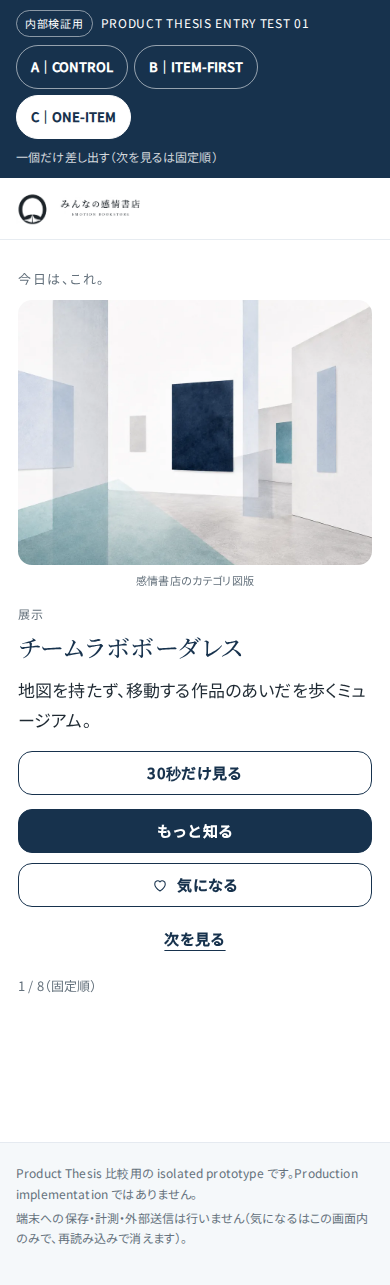
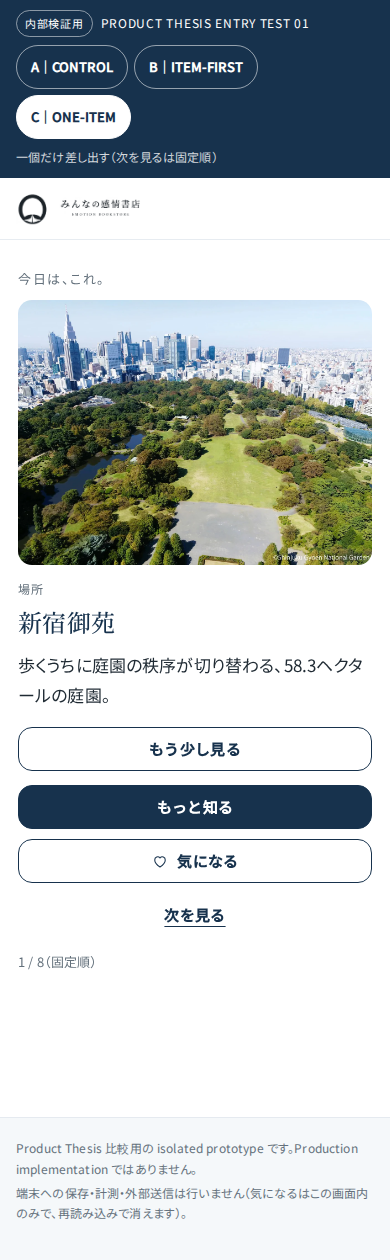
fix(v3): Thesis入口比較prototypeのexperiment validity限定修正（A/B/C）
HQ review（TECHNICAL SAFETY=GO / EXPERIMENT VALIDITY=LIMITED FIX）の
指摘4点だけを閉じる。再設計はせず、既存V3 Productファイルは触らない。

1. B の見出しを pool の実態に合わせた
   「本、映画、音楽、体験。」→「何か、気になるものを。」
   直下に「いまは、展示・場所・体験の8件を置いています。」を機械生成で表示し、
   pool に無い category を約束しない。8件の中身は変更なし。
2. C の small action を実際の動作どおりに改名
   「30秒だけ見る」→「もう少し見る」。展開は従来どおり承認済みの静的
   Practical Truth のみで、network/media/API は追加しない。
3. Visual confound の低減（TEST-ONLY の並び）
   rights上安全な唯一のREAL_READY object EXP_007 を、C の固定anchorと
   B の決定的テスト順の先頭にする。registry順・Production順は不変更で、
   random/popularity/personalizationは無い。A（Control）はこの並びを
   使わず、EXP_007を人為的に挿入していない。
4. 共有Detailは3案同一のまま（variant固有の優遇なし）を実測で確認。

検証: thesis_entry_test_check.js を同梱し 17/17 PASS。
regression: 権威suite 9/9・332 assertions、Shelf Abundance 115/115、
Music Action Bridge 33/33、browser QA 17/17 すべてPASS。
prototypeとevidenceを除外した diff は 0 件（既存Productファイル未変更）。
storage/GA4/network/data model/registry/Privacy/Termsの差分は0。

Claude-Session: https://claude.ai/code/session_01TaXVZnFfq42pQcgwEsf6HR

diff --git a/v3-prototype/thesis-entry-test/thesis_entry_test_check.js b/v3-prototype/thesis-entry-test/thesis_entry_test_check.js
@@ -1,0 +1,145 @@
+/* =============================================================================
+ * V3 PRODUCT THESIS ENTRY TEST 01 — HQ LIMITED FIX の検証
+ * Run: NODE_PATH=<workspace-node_modules> node thesis-entry-test/thesis_entry_test_check.js
+ *
+ * 実験の妥当性（experiment validity）に関する 4 点だけを機械的に確認する。
+ *   1. B の見出しが pool に無い category を約束していない
+ *   2. C の small action が試聴・予告編を装っていない
+ *   3. B / C の先頭が REAL_READY anchor（EXP_007）で、A は Control のまま
+ *   4. Detail が A/B/C で同一
+ * 併せて storage / GA4 / iframe / JS error が 0 であることを確認する。
+ * ========================================================================== */
+const { chromium } = require('playwright');
+const { start } = require('../verify/serve');
+const PAGE = '/thesis-entry-test/index.html';
+const results = [];
+function check(name, pass, detail = '') {
+  results.push(pass);
+  console.log(`${pass ? 'PASS' : 'FAIL'}  ${name}${detail ? ' — ' + detail : ''}`);
+}
+(async () => {
+  const { server, base } = await start(0);
+  const browser = await chromium.launch({ headless: true });
+  const errors = [];
+  const ctx = await browser.newContext({ viewport: { width: 390, height: 844 } });
+  const page = await ctx.newPage();
+  page.on('pageerror', e => errors.push(e.message));
+
+  // --- Variant B ---
+  await page.goto(base + PAGE + '?v=b');
+  await page.waitForSelector('[data-thesis-surface="b-browse"]');
+  const b = await page.evaluate(() => ({
+    h1: document.getElementById('surface-title').textContent,
+    lede: document.querySelector('.thesis-b-lede').textContent,
+    firstCard: document.querySelector('.thesis-card').getAttribute('data-item-id'),
+    order: Array.from(document.querySelectorAll('.thesis-card')).map(c => c.getAttribute('data-item-id')),
+    chips: Array.from(document.querySelectorAll('.thesis-chip')).map(c => c.textContent.trim()),
+    bodyText: document.getElementById('view').textContent
+  }));
+  check('B: category-neutral headline', b.h1 === '何か、気になるものを。', b.h1);
+  check('B: states only categories present in the pool', b.lede === 'いまは、展示・場所・体験の8件を置いています。', b.lede);
+  check('B: does not promise absent categories (本/映画/音楽)',
+    !/本、映画|映画/.test(b.bodyText.replace(/映画館/g, '')) || !b.chips.includes('映画'),
+    JSON.stringify(b.chips));
+  check('B: EXP_007 is the first visible object', b.firstCard === 'EXP_007', b.order.join(','));
+  check('B: same 8 items, deterministic order', b.order.length === 8 &&
+    new Set(b.order).size === 8, b.order.join(','));
+
+  // --- Variant C ---
+  await page.goto(base + PAGE + '?v=c');
+  await page.waitForSelector('[data-thesis-surface="c-one"]');
+  const c1 = await page.evaluate(() => ({
+    title: document.getElementById('surface-title').textContent,
+    peekLabel: document.querySelector('.thesis-c-peek-open').textContent.trim(),
+    position: document.querySelector('.thesis-c-position').textContent,
+    visual: document.querySelector('.thesis-visual-image').getAttribute('src'),
+    note: document.querySelectorAll('.thesis-visual-note').length
+  }));
+  check('C: EXP_007 is the fixed first anchor', c1.title === '新宿御苑', c1.title);
+  check('C: anchor uses the REAL_READY photo (no fallback caption)',
+    /real-experience\/EXP_007/.test(c1.visual) && c1.note === 0, c1.visual);
+  check('C: small action renamed to ordinary Japanese', c1.peekLabel === 'もう少し見る', c1.peekLabel);
+  check('C: no time/preview promise in the CTA', !/30秒|秒|試聴|予告/.test(c1.peekLabel), c1.peekLabel);
+  check('C: fixed-order position shown', c1.position === '1 / 8（固定順）', c1.position);
+
+  await page.locator('.thesis-c-peek-open').click();
+  const c2 = await page.evaluate(() => ({
+    facts: Array.from(document.querySelectorAll('.thesis-c-peek dt')).map(n => n.textContent),
+    requestsMade: performance.getEntriesByType('resource').filter(r => !r.name.startsWith(location.origin)).length
+  }));
+  check('C: expansion shows approved static Practical Truth only',
+    c2.facts.length > 0 && c2.facts.length <= 3 && c2.requestsMade === 0, c2.facts.join(','));
+
+  // next cycles through the same test order
+  await page.locator('.thesis-c-next').click();
+  const c3 = await page.evaluate(() => ({
+    title: document.getElementById('surface-title').textContent,
+    position: document.querySelector('.thesis-c-position').textContent
+  }));
+  check('C: 次を見る advances in fixed order', c3.position === '2 / 8（固定順）' && c3.title === 'チームラボボーダレス',
+    c3.title + ' / ' + c3.position);
+
+  // --- Variant A remains the faithful Control ---
+  await page.goto(base + PAGE + '?v=a');
+  await page.waitForSelector('[data-thesis-surface="a-home"]');
+  const a = await page.evaluate(() => ({
+    h1: document.getElementById('surface-title').textContent,
+    lede: document.querySelector('.lede').textContent,
+    hasExp007: document.getElementById('view').textContent.includes('新宿御苑')
+  }));
+  check('A: Control home copy unchanged', a.h1 === '感情の先に、世界がある' &&
+    a.lede === '本、映画、音楽、体験。8つの感情から新たな出会いを。', a.h1 + ' / ' + a.lede);
+  check('A: EXP_007 not artificially injected into the Control entry', a.hasExp007 === false);
+
+  // --- shared Detail identical across A/B/C ---
+  async function detailSignature(variant, opener) {
+    await page.goto(base + PAGE + '?v=' + variant);
+    await opener();
+    await page.waitForSelector('[data-thesis-surface="detail"]');
+    return page.evaluate(() => {
+      const s = document.querySelector('[data-thesis-surface="detail"]');
+      return {
+        blocks: Array.from(s.querySelectorAll('.thesis-detail-block h2')).map(n => n.textContent),
+        relation: (s.querySelector('.thesis-relation-shelf') || {}).textContent,
+        why: (s.querySelector('.thesis-relation-why') || {}).textContent,
+        actions: Array.from(s.querySelectorAll('.thesis-detail-actions button')).map(n => n.textContent.trim()),
+        facts: Array.from(s.querySelectorAll('.thesis-truth-list dt')).map(n => n.textContent),
+        title: (s.querySelector('.thesis-detail-title') || {}).textContent
+      };
+    });
+  }
+  const dB = await detailSignature('b', async () => {
+    await page.waitForSelector('[data-thesis-surface="b-browse"]');
+    await page.locator('.thesis-card[data-item-id="EXP_007"] .thesis-detail-entry').click();
+  });
+  const dC = await detailSignature('c', async () => {
+    await page.waitForSelector('[data-thesis-surface="c-one"]');
+    await page.locator('.thesis-c-detail').click();
+  });
+  const dA = await detailSignature('a', async () => {
+    await page.waitForSelector('[data-thesis-surface="a-home"]');
+    await page.locator('.thesis-a-start').click();
+    await page.locator('.emotion-card[data-emotion-label="まだ名前がない"]').click();
+    await page.waitForSelector('[data-thesis-surface="shelf"]');
+    await page.locator('.thesis-card[data-item-id="EXP_007"] .thesis-detail-entry').click();
+  });
+  check('Detail identical for A/B/C (same object)',
+    JSON.stringify(dA) === JSON.stringify(dB) && JSON.stringify(dB) === JSON.stringify(dC),
+    JSON.stringify(dB.blocks) + ' | ' + dB.relation);
+
+  const storage = await page.evaluate(() => ({
+    ls: Object.keys(localStorage).length, ss: Object.keys(sessionStorage).length,
+    store: typeof window.V3_STORE, gtag: typeof window.gtag,
+    dataLayer: typeof window.dataLayer, iframes: document.querySelectorAll('iframe').length
+  }));
+  check('no storage / GA4 / iframe after full interaction',
+    storage.ls === 0 && storage.ss === 0 && storage.store === 'undefined' &&
+    storage.gtag === 'undefined' && storage.dataLayer === 'undefined' && storage.iframes === 0,
+    JSON.stringify(storage));
+  check('JS errors = 0', errors.length === 0, errors.join('|'));
+
+  await ctx.close(); await browser.close(); server.close();
+  const passed = results.filter(Boolean).length;
+  console.log(`\n${passed}/${results.length} PASS`);
+  process.exit(passed === results.length ? 0 : 1);
+})().catch(e => { console.error(e); process.exit(1); });

diff --git a/v3-prototype/thesis-entry-test/thesis.js b/v3-prototype/thesis-entry-test/thesis.js
@@ -146,6 +146,21 @@
 
   var POOL = buildPool();
 
+  /* HQ LIMITED FIX 3 — visual confound reduction（実験専用の並び）。
+     現行 pool の大半が category 図版 fallback のため、Item-first / One-item の
+     Thesis が「実写がない」という理由だけで不利にならないよう、rights 上安全な
+     唯一の REAL_READY object（EXP_007）を B / C の先頭 anchor に固定する。
+     - TEST-ONLY: registry の順序も Production の順序も変更していない。
+     - 決定的な固定順のみ。random / popularity / personalization は無い。
+     - A（Control）はこの並びを使わない（EXP_007 を人為的に挿入しない）。 */
+  var TEST_ANCHOR_ID = 'EXP_007';
+
+  function testOrderedPool() {
+    var anchor = POOL.filter(function (item) { return item.id === TEST_ANCHOR_ID; });
+    var rest = POOL.filter(function (item) { return item.id !== TEST_ANCHOR_ID; });
+    return anchor.concat(rest);
+  }
+
   function itemById(id) {
     return POOL.filter(function (item) { return item.id === id; })[0] || null;
   }
@@ -430,10 +445,15 @@
      感情との関係は Detail に入ってから初めて提示する。 */
 
   function surfaceItemFirst() {
+    var ordered = testOrderedPool();
     var groups = CATEGORY_GROUPS.filter(function (group) {
       return POOL.some(function (item) { return categoryGroup(item) === group; });
     });
-    var visible = POOL.filter(function (item) {
+    /* HQ LIMITED FIX 1 — pool に無い category を約束しない。
+       見出しは category 中立にし、実在する category だけをその場で明示する。
+       文言は pool から機械的に組み立てるので、pool が変われば表示も追随する。 */
+    var presentLabels = groups.map(function (group) { return group.label; });
+    var visible = ordered.filter(function (item) {
       if (state.category === 'all') return true;
       var group = categoryGroup(item);
       return Boolean(group && group.id === state.category);
@@ -457,9 +477,12 @@
       h('div', { class: 'thesis-b-intro' }, [
         h('h1', {
           class: 'display display-sm', tabindex: '-1', id: 'surface-title',
-          text: '本、映画、音楽、体験。'
+          text: '何か、気になるものを。'
         }),
-        h('p', { class: 'body-lg thesis-b-lede', text: '気になるものを見つける場所です。' })
+        h('p', {
+          class: 'body-lg thesis-b-lede',
+          text: 'いまは、' + presentLabels.join('・') + 'の' + POOL.length + '件を置いています。'
+        })
       ]),
       h('div', { class: 'thesis-chip-row', role: 'group', 'aria-label': '種類で絞り込む' },
         [chip('all', 'すべて')].concat(groups.map(function (group) {
@@ -489,7 +512,8 @@
      「次を見る」は POOL の固定順のみ。random / engagement 最適化は無い。 */
 
   function surfaceOneItem() {
-    var item = POOL[state.oneIndex];
+    var ordered = testOrderedPool();
+    var item = ordered[state.oneIndex];
     if (!item) return h('section', { class: 'surface thesis-surface' }, []);
     var nodes = [
       h('p', { class: 'eyebrow thesis-c-eyebrow', text: '今日は、これ。' }),
@@ -515,10 +539,13 @@
         })));
     } else {
       nodes.push(h('div', { class: 'actions thesis-c-peek-action' }, [
+        /* HQ LIMITED FIX 2 — 実際の動作は承認済み静的データを開くだけなので、
+           試聴・予告編のような体験を約束しない普通の日本語に改める。
+           外部通信・media・API は追加していない。 */
         h('button', {
           class: 'btn btn-line thesis-c-peek-open', type: 'button',
           onclick: function () { state.peeked = true; render(); }
-        }, [h('span', { text: '30秒だけ見る' })])
+        }, [h('span', { text: 'もう少し見る' })])
       ]));
     }
     nodes.push(h('div', { class: 'actions thesis-c-actions' }, [
@@ -527,7 +554,7 @@
       h('button', {
         class: 'btn btn-text thesis-c-next', type: 'button',
         onclick: function () {
-          state.oneIndex = (state.oneIndex + 1) % POOL.length;
+          state.oneIndex = (state.oneIndex + 1) % ordered.length;
           state.peeked = false;
           render();
           announce('次の一件を表示しました。');
@@ -536,7 +563,7 @@
     ]));
     nodes.push(h('p', {
       class: 'note thesis-c-position',
-      text: (state.oneIndex + 1) + ' / ' + POOL.length + '（固定順）'
+      text: (state.oneIndex + 1) + ' / ' + ordered.length + '（固定順）'
     }));
     return h('section', {
       class: 'surface thesis-surface thesis-one-item',

diff --git a/v3-prototype/.rc-evidence/product-thesis-entry-test-20260826/EVIDENCE.md b/v3-prototype/.rc-evidence/product-thesis-entry-test-20260826/EVIDENCE.md
@@ -24,7 +24,7 @@
 - **Detail**: 3案で同一の surface（同一構造・同一情報・同一 Editorial relation 表示）。
 - **並び順**: 固定順のみ。random / ranking / personalization / recommendation logic は実装していない。
 
-pool（固定順）: EXP_101 チームラボボーダレス（展示・心が弾む）／EXP_102 東京おもちゃ美術館（体験・心があたたまる）／EXP_103 ザ・ペーパーログ：膜と核（展示・惹かれる）／EXP_104 東京都復興記念館（場所・沈む）／EXP_105 TOPコレクション 明日の食卓（展示・ざわつく）／EXP_106 80 GRAPHIC TRIALS（展示・ぶつかる）／EXP_107 文喫 六本木（場所・身を引く）／EXP_007 新宿御苑（場所・まだ名前がない）
+pool（registry 固定順）: EXP_101 チームラボボーダレス（展示・心が弾む）／EXP_102 東京おもちゃ美術館（体験・心があたたまる）／EXP_103 ザ・ペーパーログ：膜と核（展示・惹かれる）／EXP_104 東京都復興記念館（場所・沈む）／EXP_105 TOPコレクション 明日の食卓（展示・ざわつく）／EXP_106 80 GRAPHIC TRIALS（展示・ぶつかる）／EXP_107 文喫 六本木（場所・身を引く）／EXP_007 新宿御苑（場所・まだ名前がない）
 
 ## 3. 各 Variant の DOM / interaction
 
@@ -39,7 +39,7 @@ pool（固定順）: EXP_101 チームラボボーダレス（展示・心が弾
 
 ### B｜ITEM-FIRST DISCOVERY（実物から入る）
 - surface 順: `b-browse` → `detail` →（Detail 内）「〈感情〉の棚を見る」→ `shelf`
-- `b-browse` First View: `h1`「本、映画、音楽、体験。」＋`p`「気になるものを見つける場所です。」の直下に **実在コンテンツ 8 件の grid**（390px で 2 列 / 900px 以上で 3 列）
+- `b-browse` First View: `h1`「何か、気になるものを。」＋`p`「いまは、展示・場所・体験の8件を置いています。」の直下に **実在コンテンツ 8 件の grid**（390px で 2 列 / 900px 以上で 3 列）。見出しは category 中立で、pool に実在する category だけをその場で明示する（HQ LIMITED FIX 1）
 - 各カード: 実 visual → category label（展示 / 場所 / 体験）→ 対象名 → 公式一行要約 →「もっと知る」「気になる」
 - category chip: 承認済み語彙（本/映画/音楽/展示/場所/体験/イベント）のうち **pool に実在するものだけ**（現行は 展示・場所・体験）。session 内 UI 状態のみ
 - **First View に感情語は 1 つも出さない**。感情との関係は `detail` に入って初めて表示
@@ -48,8 +48,8 @@ pool（固定順）: EXP_101 チームラボボーダレス（展示・心が弾
 ### C｜ONE-ITEM（一個差し出す）
 - surface 順: `c-one` → `detail` →（Detail 内）同じ棚 → `shelf`／または `c-one` 上で「次を見る」
 - `c-one`: `.thesis-c-eyebrow`「今日は、これ。」→ 大きい実 visual → category label → 対象名 → **「何それ？」の一文＝公式情報にもとづく既存の一行要約**
-- 「30秒だけ見る」= その場で承認済み Practical Truth を最大3件展開するだけ（外部通信・遷移なし）
-- 「もっと知る」→ `detail`／「次を見る」→ pool の**固定順**で次の 1 件（`(i+1) % 8`）。random / engagement 最適化なし。現在地は「N / 8（固定順）」で明示
+- 「もう少し見る」= その場で承認済み Practical Truth を最大3件展開するだけ（外部通信・遷移なし）。試聴・予告編のような体験を約束しない普通の日本語にしている（HQ LIMITED FIX 2）
+- 「もっと知る」→ `detail`／「次を見る」→ **test 用固定順**で次の 1 件（`(i+1) % 8`）。random / engagement 最適化なし。現在地は「N / 8（固定順）」で明示
 - First View に一覧は出さない
 
 ### 共通 Detail（3案同一）
@@ -116,3 +116,71 @@ pool（固定順）: EXP_101 チームラボボーダレス（展示・心が弾
 
 - `origin/main` = `eca334f9671bee07833892b2476aac118f8ed018`（不変・未 merge・未 deploy）
 - commit 後 working tree clean
+
+
+---
+
+# ADDENDUM — HQ LIMITED FIX（experiment validity）
+
+- HQ review: TECHNICAL SAFETY = GO ／ EXPERIMENT VALIDITY = LIMITED FIX
+- 起点 HEAD: `81d866d5ccf7d246c785d733d309dc46c458deb6`（同一 branch 上で継続）
+- 再設計はしていない。既存 V3 Product ファイルは 1 件も触っていない。
+
+## 修正した 4 点
+
+### 1. Variant B の約束を pool の実態に合わせた
+- before: `h1`「本、映画、音楽、体験。」＋「気になるものを見つける場所です。」
+- after: `h1`「何か、気になるものを。」＋「いまは、展示・場所・体験の8件を置いています。」
+- 実在しない category（本 / 映画 / 音楽）を First View で約束しない。
+- 後半の一文は pool から機械的に生成しているため、pool が変われば表示も追随する（手書きの固定文言ではない）。
+- 8 件の中身は変更していない。
+
+### 2. Variant C の small action を実際の動作どおりにした
+- before:「30秒だけ見る」（実際には Practical Truth を開くだけで、試聴/予告編は存在しない）
+- after:「もう少し見る」
+- 展開内容は従来どおり承認済みの静的 Practical Truth のみ。新規 editorial copy・network・media・API はいずれも追加していない。
+- C の目的は ONE-ITEM-first 構造の検証であり、存在しない体験を装わない。
+
+### 3. Visual confound の低減（TEST-ONLY の並び）
+- 現行 pool の大半が category 図版 fallback のため、Item-first / One-item が「実写がないから」という理由で不利にならないようにする。
+- rights 上安全な唯一の REAL_READY object **EXP_007（新宿御苑）** を、
+  - Variant C の**固定 anchor（1件目）**
+  - Variant B の決定的テスト順における**先頭の可視 object**
+  にした。
+- 実装は `testOrderedPool()`（anchor を先頭に置くだけの決定的関数）。**registry の順序も Production の順序も変更していない**。random / popularity / personalization は無い。
+- **Variant A（Control）はこの並びを使わない。** EXP_007 を人為的に混ぜていないことをテストで確認済み。
+- pool の 8 件そのものは 3 案とも同一のまま。
+
+### 4. 共有 Detail は同一のまま
+- A / B / C から同一 object の Detail を開き、見出し・Editorial relation・Why・Practical Truth・Action の全署名が**完全一致**することを実測（variant 固有の優遇なし）。
+
+## 検証（`entry-test-limited-fix-check.txt` — 17/17 PASS）
+
+`thesis-entry-test/thesis_entry_test_check.js` として再実行可能な形で同梱。
+
+| 確認 | 実測 |
+| --- | --- |
+| B 見出しが category 中立 | 「何か、気になるものを。」 |
+| B が pool の category だけを明示 | 「いまは、展示・場所・体験の8件を置いています。」／chip = すべて・展示・場所・体験 |
+| B 先頭が EXP_007 | `EXP_007,EXP_101,EXP_102,EXP_103,EXP_104,EXP_105,EXP_106,EXP_107` |
+| C の anchor | 新宿御苑（`real-experience/EXP_007…webp`／fallback caption なし） |
+| C の small action 名 | 「もう少し見る」（秒数・試聴・予告の語なし） |
+| C の展開内容 | 承認済み Practical Truth 3 件のみ・追加 request 0 |
+| C の「次を見る」 | 2 / 8（固定順）→ チームラボボーダレス |
+| A の Control copy | 「感情の先に、世界がある」「本、映画、音楽、体験。8つの感情から新たな出会いを。」不変 |
+| A に EXP_007 の人為的挿入 | なし |
+| A/B/C の Detail 署名 | 完全一致 |
+| storage / GA4 / iframe / JS error | 0 / 0 / 0 / 0 |
+
+## Regression（既存 Product が無傷であること）
+
+| 検証 | 結果 |
+| --- | --- |
+| 権威 regression suite | 9/9 suites・332 assertions PASS・0 FAIL |
+| Shelf Abundance verifier | 115/115 PASS |
+| Music Action Bridge verifier | 33/33 PASS |
+| Browser QA（既存 index.html） | 17/17 PASS |
+| `node --check` / `git diff --check` | OK |
+
+`git diff 81d866d..HEAD` から prototype と evidence を除外すると**変更ファイル 0 件**（既存 Product ファイル未変更の機械的証明）。
+storage / GA4 / network / data model / registry / Privacy / Terms の差分は 0。
